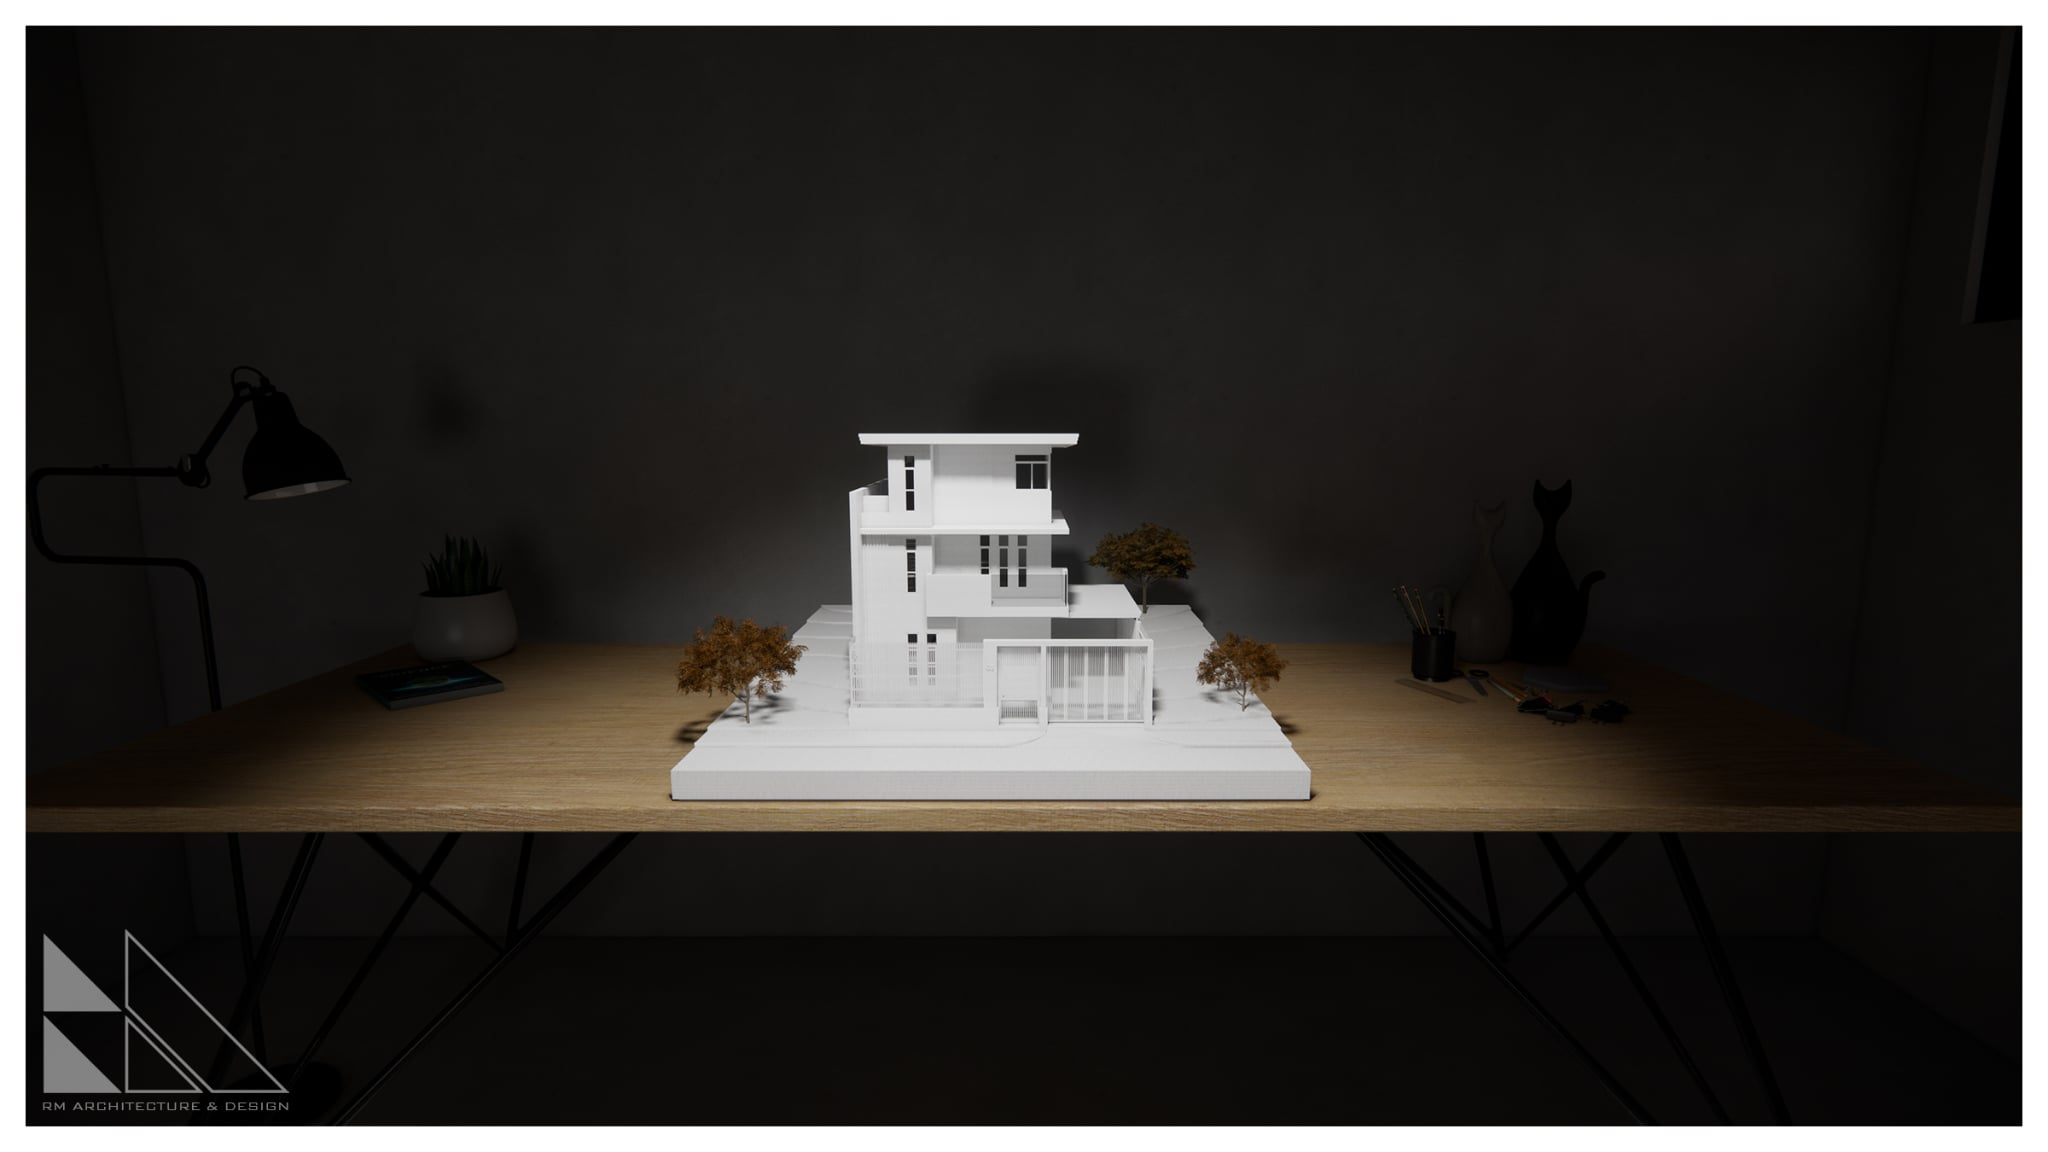
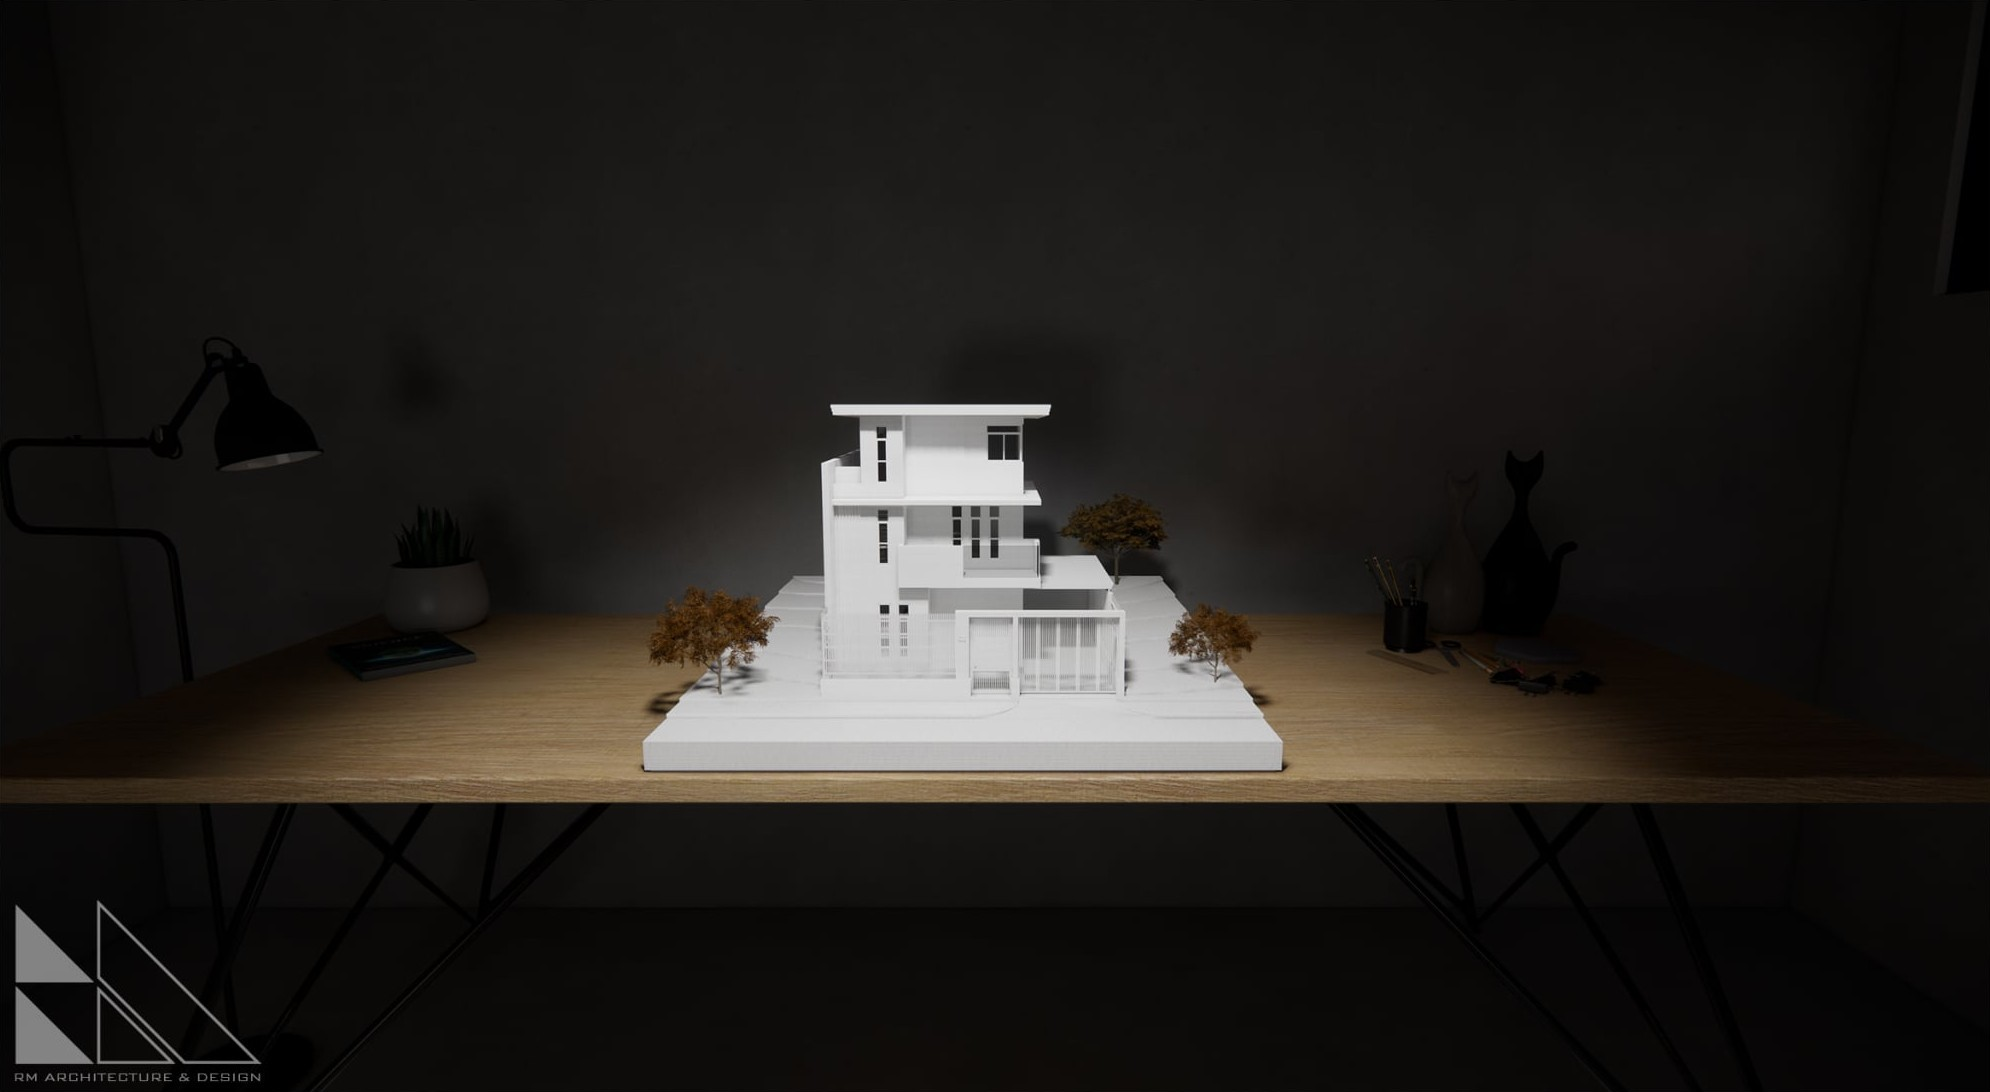
contact us page

diff --git a/src/pages/Contact.tsx b/src/pages/Contact.tsx
@@ -1,6 +1,21 @@
+import { ArchitectDetails } from "../assets/constants";
+
 const Contact = () => {
-    return(<div>
-        <h1>Contact</h1>
+    const getDetails = () => {
+        const details = [
+            { type: 'phone', value: ArchitectDetails.PhoneNumber },
+            { type: 'email', value: ArchitectDetails.Email },
+            { type: 'location', value: ArchitectDetails.Location },
+            { type: 'social', value: ArchitectDetails.Facebook },
+            { type: 'social', value: ArchitectDetails.Instagram  }
+        ];
+
+        return details.map(detail => (<div key={detail.type}>{detail.value}</div>))
+    }
+    return (<div id='rm-contactus-wrapper'>
+        <div id='rm-contactus-detials'>
+            {getDetails()}
+        </div>
     </div>)
 };
 

diff --git a/src/App.tsx b/src/App.tsx
@@ -5,15 +5,12 @@ import ToolBar from './components/Toolbar';
 import About from './pages/About';
 import Contact from './pages/Contact';
 import HomePage from './pages/HomePage';
-import Carousel from './components/Carousel';
 
 function App() {
 
   return (
     <BrowserRouter>
       <ToolBar />
-      <Carousel />
-
       {/* Routes */}
       <Routes>
         <Route path="/" element={<HomePage />} />

diff --git a/src/components/Toolbar.tsx b/src/components/Toolbar.tsx
@@ -11,7 +11,7 @@ const ToolBar = () => {
                 <nav id='rm-toolbar-nav'>
                     <NavLink to="/">Home</NavLink>
                     <NavLink to="/about">About</NavLink>
-                    <NavLink to="/contact">Contact</NavLink>
+                    <NavLink to="/contact">Contact Us</NavLink>
                 </nav>
             </div>
         </div>

diff --git a/src/assets/constants.ts b/src/assets/constants.ts
@@ -1,0 +1,8 @@
+export enum ArchitectDetails {
+    Name = 'Reymark S. Macasaet',
+    PhoneNumber = '+63 999 9705 119',
+    Email = 'reymarkmacasaet@gmail.com',
+    Location = 'Hagonoy, Bulacan, Philippines',
+    Facebook = 'fb.com/rey.mcst',
+    Instagram = 'instagram.com/rey.mcst'
+};

diff --git a/src/index.css b/src/index.css
@@ -1,6 +1,7 @@
 @import '../src/styles/components/toolbar.scss';
 @import '../src/styles/components/carousel.scss';
 @import '../src/styles/components/about.scss';
+@import '../src/styles/components/contactus.scss';
 
 
 :root {

diff --git a/src/styles/components/contactus.scss b/src/styles/components/contactus.scss
@@ -1,0 +1,10 @@
+#rm-contactus-wrapper {
+    background-color: aliceblue;
+    padding: 2em;
+
+    #rm-contactus-detials {
+        display: flex;
+        flex-direction: column;
+        align-items: flex-start;
+    }
+};

diff --git a/src/pages/HomePage.tsx b/src/pages/HomePage.tsx
@@ -1,6 +1,8 @@
+import Carousel from "../components/Carousel";
+
 const HomePage = () => {
-    return(<div>
-        <h1>Home</h1>
+    return(<div id='rm-home-wrapper'>
+        <Carousel />
     </div>)
 };
 

diff --git a/src/assets/index.ts b/src/assets/index.ts
@@ -1,2 +1,3 @@
 export { default as rm_logo} from './rm_logo.jpg'
 export * from './portfolio/index';
+export * from './constants';
